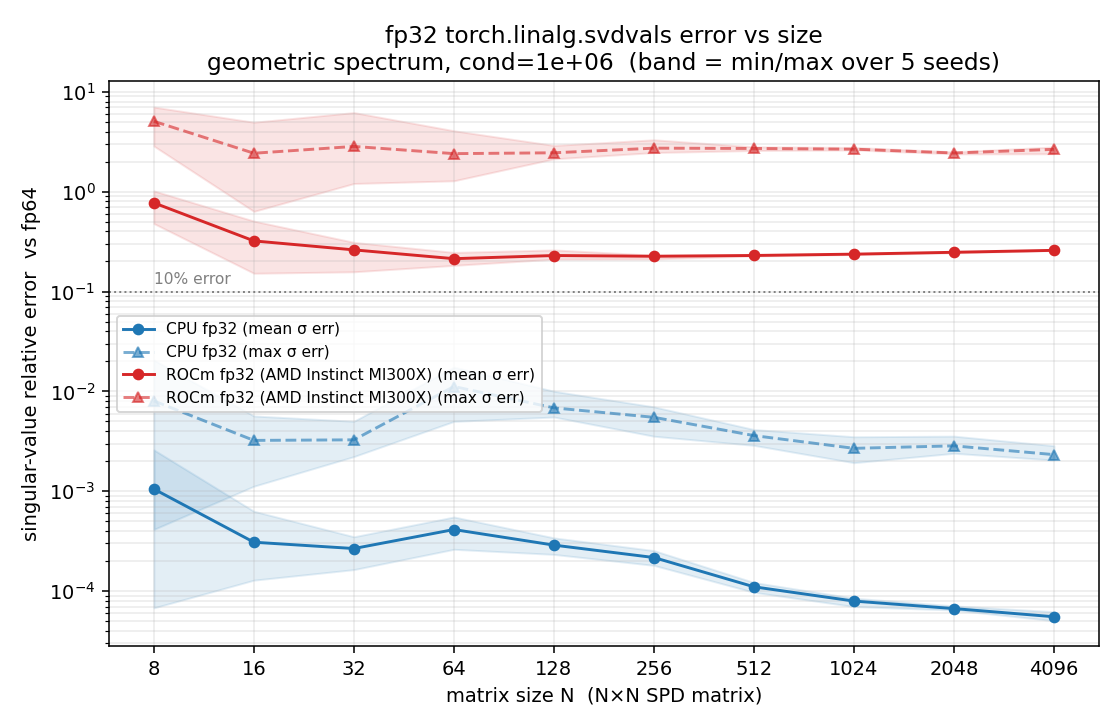
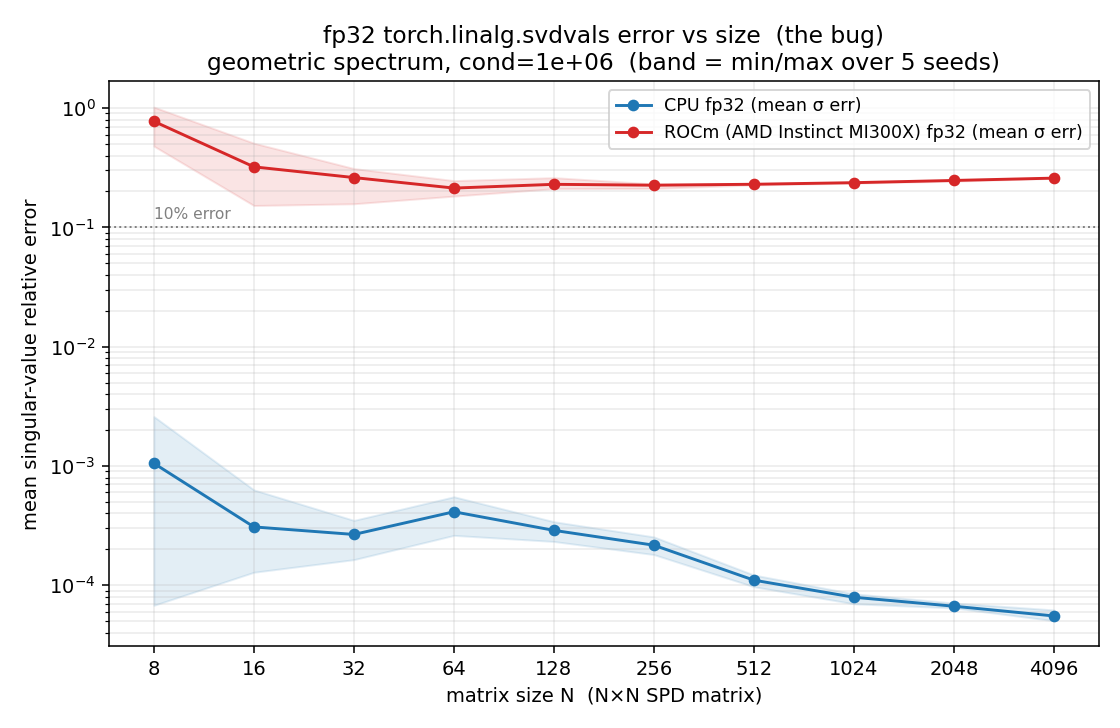
Plots: fp32 mean-only, add fp64 control plot
plot_size.py now emits svd_error_vs_size.png (fp32, mean error only) and
svd_error_vs_size_fp64.png (fp64 control). fp64 is accurate on both CPU and
ROCm (~1e-12), confirming the matrices are well-posed and fp64 is the fix.
fp32 reference is fp64-SVD-of-the-fp32-matrix; fp64 reference is the exact
prescribed spectrum.

diff --git a/plot_size.py b/plot_size.py
@@ -1,16 +1,25 @@
 """
-Plot fp32 SVD singular-value relative error vs matrix size, for SPD matrices with
-a GEOMETRIC singular-value spectrum (fixed condition number). CPU fp32 vs ROCm
-fp32, each compared to the fp64 SVD of the identical fp32 matrix.
+Plot SVD singular-value relative error vs matrix size, for SPD matrices with a
+GEOMETRIC singular-value spectrum (fixed condition number), CPU vs ROCm.
+
+Two figures:
+  svd_error_vs_size.png       fp32  (the bug: ROCm fp32 is broken, CPU fp32 fine)
+  svd_error_vs_size_fp64.png  fp64  (control: both backends accurate)
 
 Matrix construction (SPD, so U = V = Q):
     s = (1/cond) ** (arange(N)/(N-1))        # geometric spectrum, 1 .. 1/cond
     Q, _ = qr(randn(N, N))                    # Haar-random orthogonal (fp64)
-    A = Q diag(s) Qᵀ  -> cast to fp32
+    A = Q diag(s) Qᵀ
 
-Several seeds per N; we plot the mean over seeds with a min/max band.
+References (ground truth singular values for what each backend was handed):
+    fp32 backends get the fp32-rounded matrix -> ref = fp64 SVD of that fp32 matrix
+         (isolates the SVD algorithm from fp32 input rounding).
+    fp64 backends get the full fp64 matrix    -> ref = the prescribed spectrum s
+         (exact by construction; fp64 SVD of A equals s to ~1e-15).
 
-    python plot_size.py            # cond=1e6, N=8..4096, 5 seeds -> svd_error_vs_size.png
+We plot the MEAN singular-value relative error over seeds (band = min/max).
+
+    python plot_size.py            # cond=1e6, N=8..4096, 5 seeds
 """
 import numpy as np
 import torch
@@ -27,57 +36,62 @@ print(f"torch={torch.__version__} hip={getattr(torch.version,'hip',None)} gpu={g
 
 
 def trial(N, cond, seed):
+    """Return {(dtype, dev): mean_rel_err}."""
     g = torch.Generator().manual_seed(seed)
     Q, _ = torch.linalg.qr(torch.randn(N, N, dtype=torch.float64, generator=g))
-    s = (1.0 / cond) ** (torch.arange(N, dtype=torch.float64) / (N - 1))
-    A = ((Q * s) @ Q.T)
-    A = ((A + A.T) / 2).to(torch.float32)
-    ref = torch.linalg.svdvals(A.double())
+    s = (1.0 / cond) ** (torch.arange(N, dtype=torch.float64) / (N - 1))   # descending truth
+    A64 = (Q * s) @ Q.T
+    A64 = (A64 + A64.T) / 2
+    A32 = A64.to(torch.float32)
+
+    ref32 = torch.linalg.svdvals(A32.double())     # truth for the fp32 matrix
+    ref64 = s                                       # truth for the fp64 matrix (exact)
     out = {}
     for dev in DEVS:
-        S = torch.linalg.svdvals(A.to(dev)).double().cpu()
-        rel = (S - ref).abs() / ref.abs()
-        out[dev] = (rel.mean().item(), rel.max().item())
+        S32 = torch.linalg.svdvals(A32.to(dev)).double().cpu()
+        out[("fp32", dev)] = ((S32 - ref32).abs() / ref32.abs()).mean().item()
+        S64 = torch.linalg.svdvals(A64.to(dev)).double().cpu()
+        out[("fp64", dev)] = ((S64 - ref64).abs() / ref64.abs()).mean().item()
     return out
 
 
-# collect: data[dev]['mean'/'max'] -> array [len(SIZES), len(SEEDS)]
-data = {d: {"mean": np.zeros((len(SIZES), len(SEEDS))),
-            "max": np.zeros((len(SIZES), len(SEEDS)))} for d in DEVS}
+keys = [(dt, dev) for dt in ("fp32", "fp64") for dev in DEVS]
+acc = {k: np.zeros((len(SIZES), len(SEEDS))) for k in keys}
 for i, N in enumerate(SIZES):
     for j, sd in enumerate(SEEDS):
         r = trial(N, COND, sd)
-        for d in DEVS:
-            data[d]["mean"][i, j], data[d]["max"][i, j] = r[d]
-    line = "  ".join(f"{d}: mean={data[d]['mean'][i].mean():.2e}" for d in DEVS)
-    print(f"  N={N:>5}  {line}")
+        for k in keys:
+            acc[k][i, j] = r[k]
+    msg = "  ".join(f"{dt}/{dev}={acc[(dt,dev)][i].mean():.2e}" for dt, dev in keys)
+    print(f"  N={N:>5}  {msg}")
 
 x = np.array(SIZES)
 colors = {"cpu": "tab:blue", "cuda": "tab:red"}
-labels = {"cpu": "CPU fp32", "cuda": f"ROCm fp32 ({gpu})"}
+labels = {"cpu": "CPU", "cuda": f"ROCm ({gpu})"}
 
-fig, ax = plt.subplots(figsize=(8, 5.2))
-for d in DEVS:
-    for stat, ls, alpha in [("mean", "-", 1.0), ("max", "--", 0.6)]:
-        m = data[d][stat]
-        ax.plot(x, m.mean(1), ls, color=colors[d], alpha=alpha,
-                marker="o" if stat == "mean" else "^", markersize=5,
-                label=f"{labels[d]} ({'mean' if stat=='mean' else 'max'} σ err)")
-        ax.fill_between(x, m.min(1), m.max(1), color=colors[d], alpha=0.12)
 
-ax.axhline(0.1, color="gray", ls=":", lw=1)
-ax.text(x[0], 0.11, "10% error", color="gray", fontsize=8, va="bottom")
-ax.set_xscale("log", base=2)
-ax.set_yscale("log")
-ax.set_xticks(x)
-ax.set_xticklabels(x)
-ax.set_xlabel("matrix size N  (N×N SPD matrix)")
-ax.set_ylabel("singular-value relative error  vs fp64")
-ax.set_title(f"fp32 torch.linalg.svdvals error vs size\n"
-             f"geometric spectrum, cond={COND:.0e}  (band = min/max over {len(SEEDS)} seeds)")
-ax.legend(fontsize=8, loc="center left")
-ax.grid(True, which="both", alpha=0.25)
-fig.tight_layout()
-out = "svd_error_vs_size.png"
-fig.savefig(out, dpi=140)
-print(f"saved {out}")
+def make_plot(dtype, fname, title_extra):
+    fig, ax = plt.subplots(figsize=(8, 5.2))
+    for dev in DEVS:
+        m = acc[(dtype, dev)]
+        ax.plot(x, m.mean(1), "-o", color=colors[dev], markersize=5,
+                label=f"{labels[dev]} {dtype} (mean σ err)")
+        ax.fill_between(x, m.min(1), m.max(1), color=colors[dev], alpha=0.12)
+    ax.axhline(0.1, color="gray", ls=":", lw=1)
+    ax.text(x[0], 0.11, "10% error", color="gray", fontsize=8, va="bottom")
+    ax.set_xscale("log", base=2)
+    ax.set_yscale("log")
+    ax.set_xticks(x); ax.set_xticklabels(x)
+    ax.set_xlabel("matrix size N  (N×N SPD matrix)")
+    ax.set_ylabel("mean singular-value relative error")
+    ax.set_title(f"{dtype} torch.linalg.svdvals error vs size  ({title_extra})\n"
+                 f"geometric spectrum, cond={COND:.0e}  (band = min/max over {len(SEEDS)} seeds)")
+    ax.legend(fontsize=9, loc="best")
+    ax.grid(True, which="both", alpha=0.25)
+    fig.tight_layout()
+    fig.savefig(fname, dpi=140)
+    print(f"saved {fname}")
+
+
+make_plot("fp32", "svd_error_vs_size.png", "the bug")
+make_plot("fp64", "svd_error_vs_size_fp64.png", "control: fp64 is fine on both")

diff --git a/STRUCTURE.md b/STRUCTURE.md
@@ -72,11 +72,18 @@ conditioning than CPU for these spectra.
 tiling/alignment/workspace artifact — it is intrinsic to the fp32 SVD on a smooth
 spectrum. Confirmed robust across random seeds.
 
-![SVD error vs size](svd_error_vs_size.png)
+![SVD error vs size, fp32](svd_error_vs_size.png)
 
 The ROCm fp32 error (red) is flat and far above 10% for every size 8…4096, while
-CPU fp32 (blue) stays ~1e-4; band = min/max over 5 seeds. Regenerate with
-`python plot_size.py`.
+CPU fp32 (blue) stays ~1e-4; band = min/max over 5 seeds.
+
+In fp64 the same matrices are accurate on **both** backends (~1e-12, ~9 orders
+below the failure threshold) — i.e. fp64 is the fix, and nothing about these
+matrices is intrinsically unsolvable:
+
+![SVD error vs size, fp64 control](svd_error_vs_size_fp64.png)
+
+Regenerate both with `python plot_size.py`.
 
 ## Practical predicate
 
